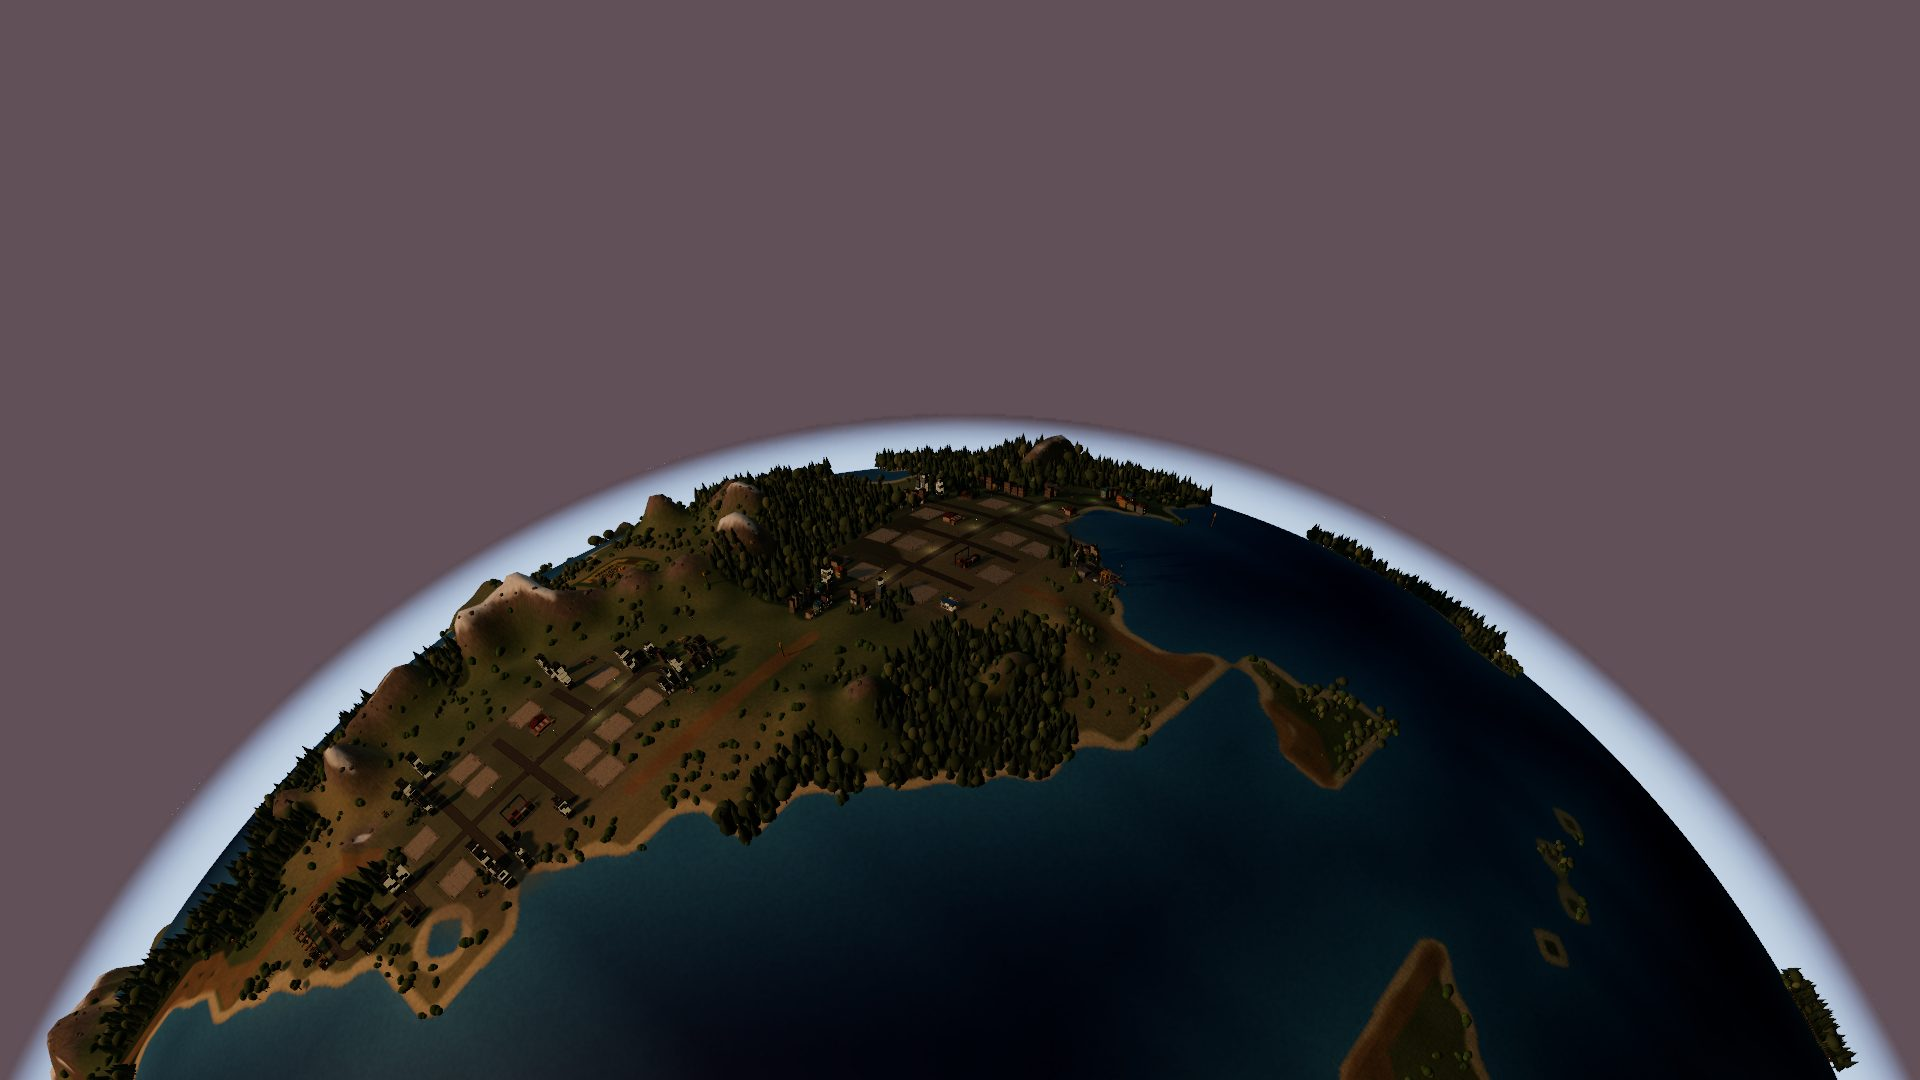
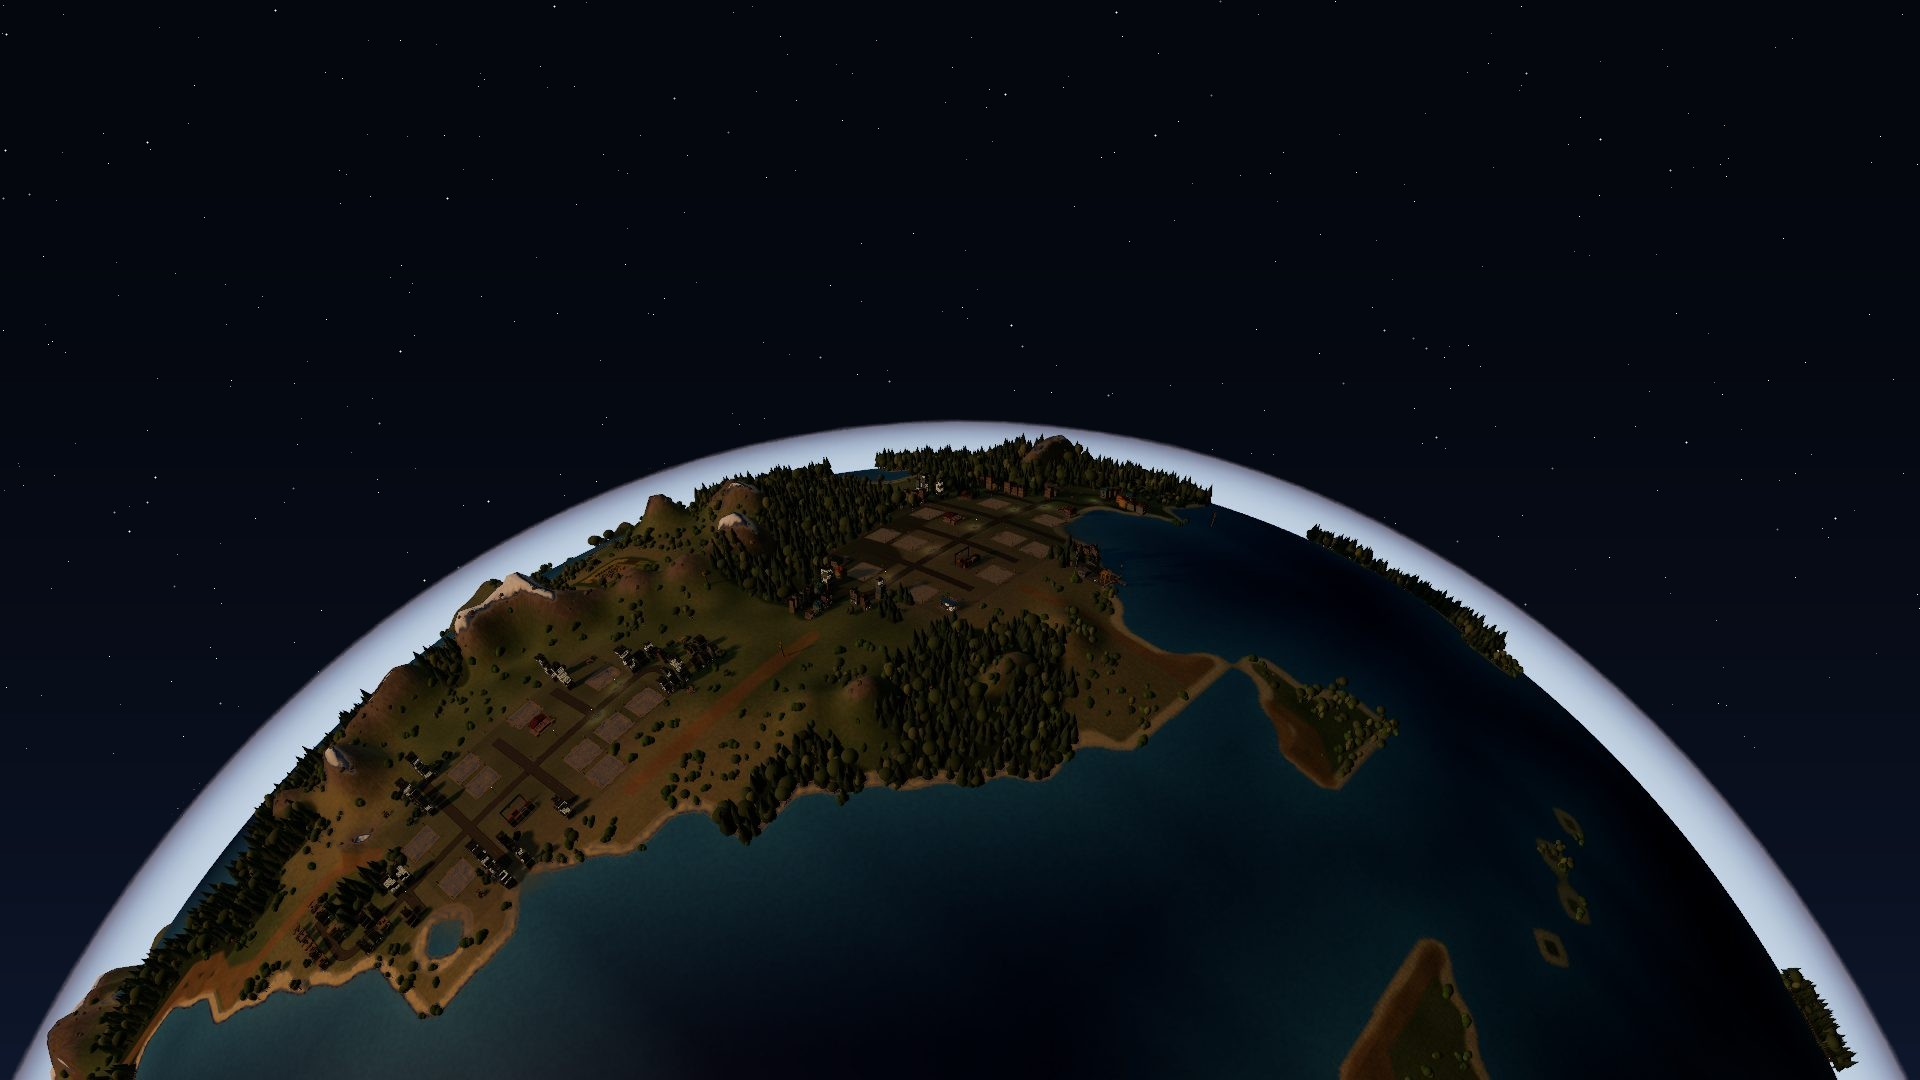
0.52 Title picture: real starry space sky behind the globe

diff --git a/src/version.ts b/src/version.ts
@@ -1,3 +1,3 @@
 /** The build number, matching the commit it ships in (0.7, 0.8, ...), and a short line on what that update covered. Bump both with every commit. */
-export const VERSION = '0.51';
-export const VERSION_NOTE = 'A calendar with months and years, and winter snow now stays near the poles and on high ground instead of covering every land';
+export const VERSION = '0.52';
+export const VERSION_NOTE = 'The first title picture now has a proper starry space sky instead of a flat grey-purple one';
